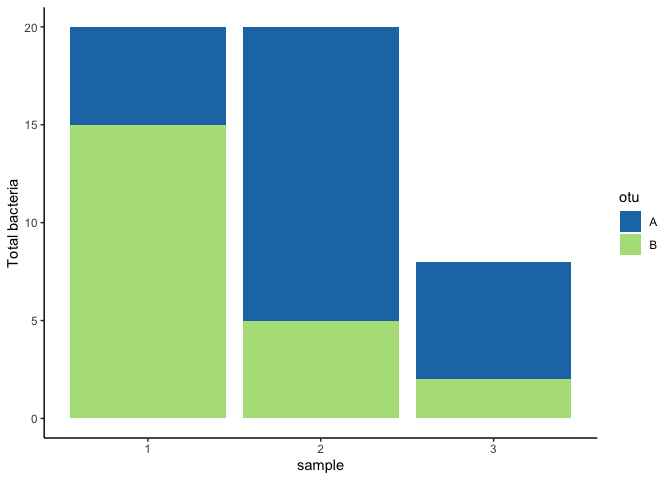
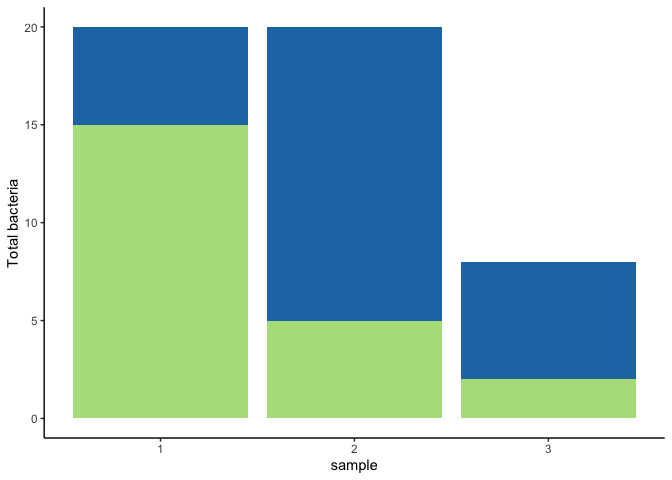
Fix colors & set a seed

diff --git a/README.md b/README.md
@@ -25,6 +25,7 @@ library(here)
 library(magick)
 library(RColorBrewer)
 library(tidyverse)
+set.seed(2020)
 ```
 
 # plot-recreation
@@ -78,8 +79,9 @@ otu_data <- otu_data %>%
            name = glue("<i style='color:{color}'>{bact}</i> (OTU {otu})"))
 # plot it
 otu_data %>% 
-    ggplot(aes(name, value)) +
+    ggplot(aes(name, value, fill=color)) +
     geom_col() + 
+    scale_fill_identity() +
     coord_flip() +
     theme(axis.text.y = element_markdown())
 ```
@@ -114,22 +116,20 @@ Med](https://www.nature.com/articles/s41591-019-0709-7/figures/2)
 ### Assign colors manually
 
 ``` r
+palette = brewer.pal(n = 4, name = "Paired")
+colors = c(A = palette[[2]],
+           B = palette[[3]])
 otu_table <- tibble(
     sample = c("1", "2", "3", "1", "2", "3"),
     otu = c("A", "A", "A", "B", "B", "B"),
     abun = c(5, 15, 6, 15, 5, 2)
-)
-palette = brewer.pal(n = 4, name = "Paired")
-colors = c(
-  A = palette[[2]],
-  B = palette[[3]]
-)
+) %>% mutate(color = colors[otu])
 
-# plot total counts (aboslute abundace)
+# plot abundance
 otu_table %>%
-    ggplot(aes(x = sample, y = abun, fill = otu)) +
+    ggplot(aes(x = sample, y = abun, fill = color)) +
     geom_col() +
-    scale_fill_manual("otu", values=colors) +
+    scale_fill_identity() +
     ylab("Total bacteria") +
     theme_classic()
 ```
